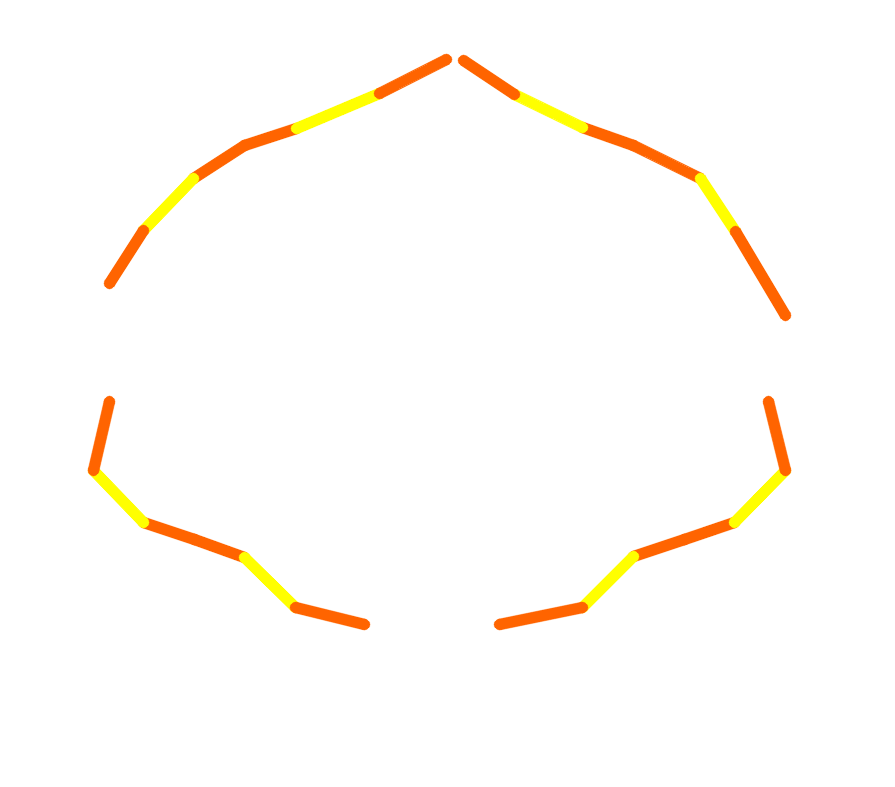
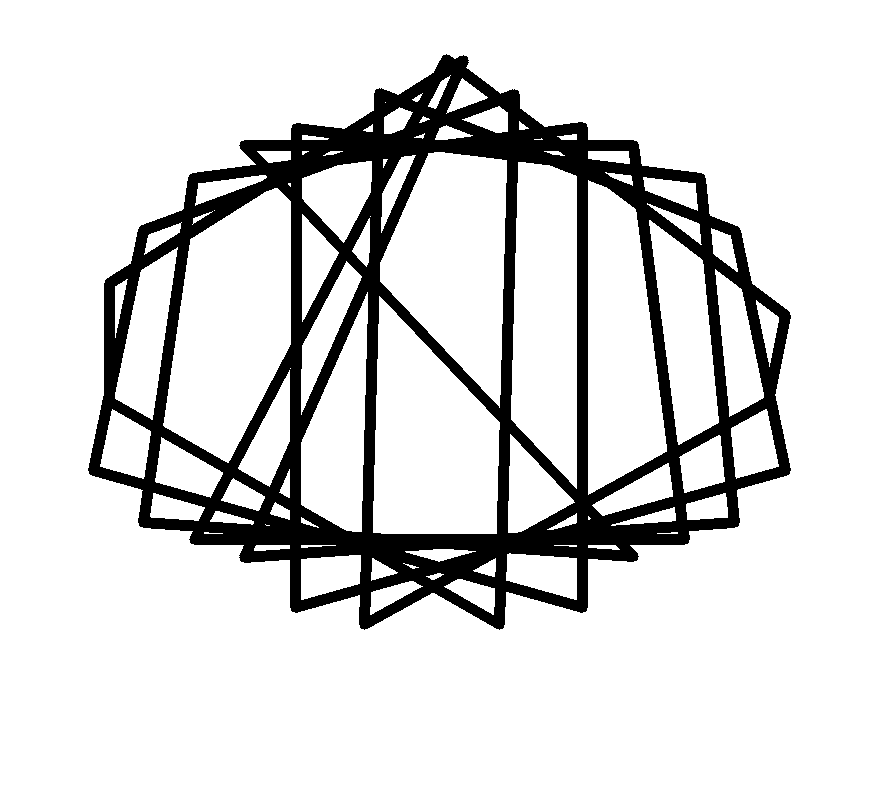
fix : polygon

Changed region(s): [[0.0905, 0.061, 0.905, 0.8234]]

diff --git a/multi-person-openpose.py b/multi-person-openpose.py
@@ -215,7 +215,6 @@ for part in interested_joints:
 
     detected_keypoints.append(keypoints_with_id)
 
-
 # frameClone = image1.copy()
 image1_height, image1_width, _ = image1.shape 
 frameClone = np.ones((image1_height, image1_width, 3), dtype=np.uint8) * 255
@@ -230,14 +229,14 @@ valid_pairs, invalid_pairs = getValidPairs(output)
 personwiseKeypoints = getPersonwiseKeypoints(valid_pairs, invalid_pairs)
 # print(personwiseKeypoints)
 
-for i in range(len(POSE_PAIRS) - 1):
-    for n in range(len(personwiseKeypoints)):
-        index = personwiseKeypoints[n][np.array(POSE_PAIRS[i])]
-        if -1 in index:
-            continue
-        B = np.int32(keypoints_list[index.astype(int), 0])
-        A = np.int32(keypoints_list[index.astype(int), 1])
-        cv2.line(frameClone, (B[0], A[0]), (B[1], A[1]), colors[i], 10, cv2.LINE_AA)
+# for i in range(len(POSE_PAIRS) - 1):
+#     for n in range(len(personwiseKeypoints)):
+#         index = personwiseKeypoints[n][np.array(POSE_PAIRS[i])]
+#         if -1 in index:
+#             continue
+#         B = np.int32(keypoints_list[index.astype(int), 0])
+#         A = np.int32(keypoints_list[index.astype(int), 1])
+#         cv2.line(frameClone, (B[0], A[0]), (B[1], A[1]), colors[i], 10, cv2.LINE_AA)
 
 # R-Wr {4}, L-Wr {7}
 # print("R-Wr")
@@ -246,10 +245,16 @@ for i in range(len(POSE_PAIRS) - 1):
 # print(detected_keypoints[7])
 
 # print(personwiseKeypoints)      
-print(keypoints_list)
-# for i in range(1, 8):
-#     for j in range(len(detected_keypoints[i])):
-#         cv2.circle(frameClone, detected_keypoints[i][j][0:2], 20, color, -1, cv2.LINE_AA)
+# print(keypoints_list)
+dots = []
+for i in range(1, 8):
+    for j in range(len(detected_keypoints[i])):
+        dots.append(list(detected_keypoints[i][j][0:2]))
+        # cv2.circle(frameClone, detected_keypoints[i][j][0:2], 20, color, -1, cv2.LINE_AA)
+print(dots)
+polygon_dots = np.array(dots, np.int32)
+print(polygon_dots)
+cv2.polylines(frameClone, [polygon_dots], True, (0, 0, 0), 10)
 
 cv2.imshow("Detected Pose" , frameClone)
 cv2.imwrite('./skeleton.png', frameClone)
